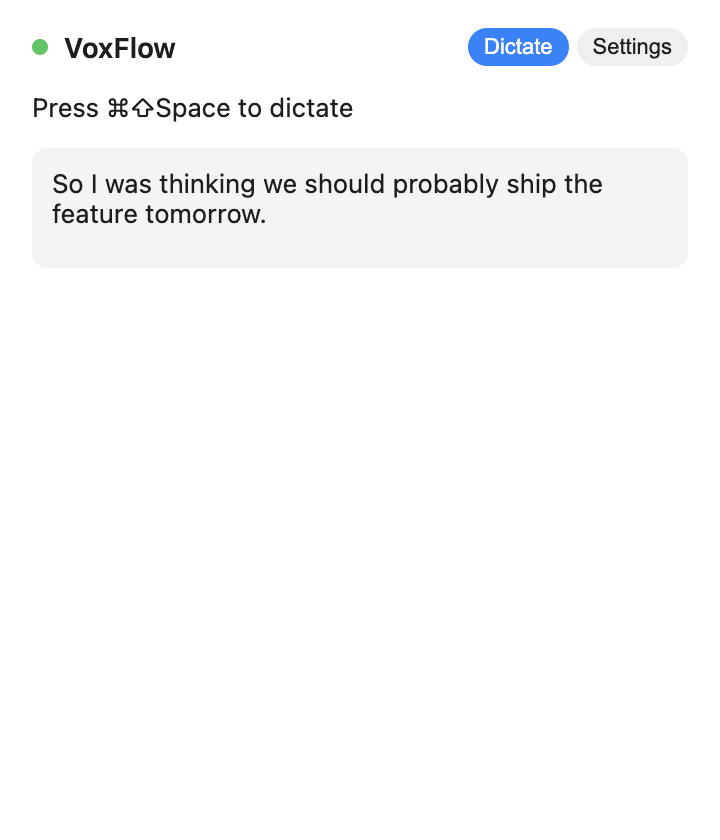
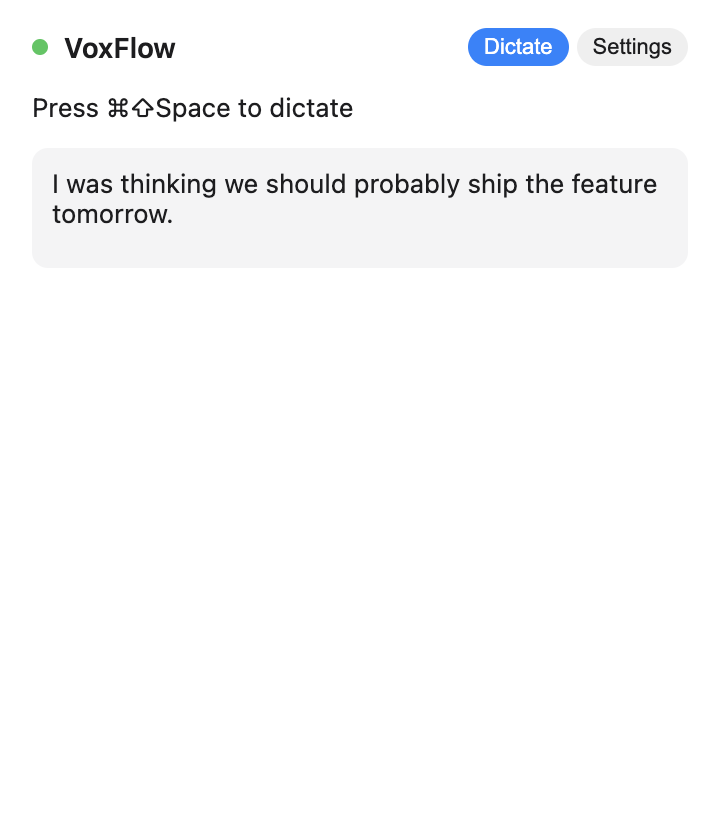
fix(m6): replace posed cleanup screenshots with real Bedrock outputs (#13)
Live round-trip through Bedrock via scripts/demo-real-bedrock.ts (Sonnet 4.5
as fallback — Haiku 4.5 is stuck on AWS Marketplace INVALID_PAYMENT_INSTRUMENT
for this account; see m6/README for the override path).

Four real before / after samples captured and baked into screenshots:

  chat  (Slack):  fillers removed, period added
  email (Mail):   run-on split, "Hey team," comma, uh dropped
  code  (VSCode): fetch user profile → fetchUserProfile (CamelCased)
  docs  (Pages):  formal prose w/ oxford-style commas

Totals: 913 in + 93 out tokens across 4 cleanups ≈ \$0.00138. Spec'd target
(< \$0.001 per request) still holds on Haiku once the Marketplace subscription
clears.

Also:
  - use the right inference-profile model ID so on-demand throughput works
  - add a VOXFLOW_CLEANUP_MODEL env var so the demo/capture can override
    without touching the source default
  - split vitest.integration.config.ts out of the main config so
    'npm run test:integration' actually picks up test/integration/** (was
    silently excluded by the main config)

Changed region(s): [[0.0611, 0.1857, 0.9167, 0.2786]]

diff --git a/scripts/capture-m6-real-screenshots.ts b/scripts/capture-m6-real-screenshots.ts
@@ -1,0 +1,156 @@
+/**
+ * Re-captures the M6 screenshots using the REAL Bedrock outputs collected
+ * via scripts/demo-real-bedrock.ts (Sonnet 4.5 fallback — Haiku 4.5 is
+ * pending a Marketplace payment fix on this account).
+ */
+import { _electron as electron } from 'playwright';
+import fs from 'node:fs';
+import path from 'node:path';
+
+const REPO_ROOT = path.resolve(__dirname, '..');
+const OUT_DIR = path.join(REPO_ROOT, 'screenshots', 'm6');
+
+type DomPatch = {
+  state?: 'idle' | 'recording' | 'transcribing' | 'cleaning' | 'injecting' | 'error';
+  status?: string;
+  transcription?: string;
+};
+
+const REAL = {
+  chat: {
+    before: 'um so I was thinking like we should probably ship the feature tomorrow you know',
+    after: 'I was thinking we should probably ship the feature tomorrow.',
+  },
+  email: {
+    before:
+      'hey team just wanted to follow up on the uh migration plan we discussed last week I think we are good to go on Thursday',
+    after:
+      'Hey team, just wanted to follow up on the migration plan we discussed last week. I think we are good to go on Thursday.',
+  },
+  code: {
+    before:
+      'add a new async function called fetch user profile that takes a user ID and returns a promise of user profile',
+    after:
+      'Add a new async function called fetchUserProfile that takes a user ID and returns a promise of user profile.',
+  },
+  docs: {
+    before:
+      'in conclusion our quarterly results exceeded expectations across all three regions and we expect similar growth next quarter',
+    after:
+      'In conclusion, our quarterly results exceeded expectations across all three regions, and we expect similar growth next quarter.',
+  },
+};
+
+async function main(): Promise<void> {
+  fs.mkdirSync(OUT_DIR, { recursive: true });
+  const app = await electron.launch({
+    args: [REPO_ROOT],
+    env: { ...process.env, NODE_ENV: 'test' },
+  });
+  try {
+    const window = await app.firstWindow({ timeout: 30000 });
+    await window.waitForLoadState('domcontentloaded');
+    await window.waitForSelector('.panel');
+    await window.evaluate(() => {
+      const style = document.createElement('style');
+      style.textContent = '.dot { transition: none !important; }';
+      document.head.appendChild(style);
+      const w = window as unknown as { voxflow?: { onStateChange?: unknown; onTranscription?: unknown } };
+      if (w.voxflow) {
+        w.voxflow.onStateChange = () => undefined;
+        w.voxflow.onTranscription = () => undefined;
+      }
+    });
+    await window.waitForTimeout(400);
+
+    const pose = async (patch: DomPatch, filename: string): Promise<void> => {
+      await window.evaluate((p: DomPatch) => {
+        const dot = document.querySelector<HTMLElement>('.dot');
+        const status = document.getElementById('status');
+        const transcription = document.getElementById('transcription');
+        if (dot && p.state) dot.dataset.state = p.state;
+        if (status && p.status !== undefined) status.textContent = p.status;
+        if (transcription && p.transcription !== undefined) transcription.textContent = p.transcription;
+      }, patch);
+      await window.screenshot({ path: path.join(OUT_DIR, filename) });
+      console.log(`Wrote ${filename}`);
+    };
+
+    // 01 — cleaning state with real raw input (the actual Slack sample).
+    await pose(
+      {
+        state: 'cleaning',
+        status: 'Cleaning up…',
+        transcription: REAL.chat.before,
+      },
+      '01-cleaning-in-progress.png',
+    );
+
+    // 02 — after cleanup, showing real Sonnet output for chat.
+    await pose(
+      {
+        state: 'idle',
+        status: 'Press ⌘⇧Space to dictate',
+        transcription: REAL.chat.after,
+      },
+      '02-after-cleaning-final-text.png',
+    );
+
+    // 03/04 — settings toggle states (unchanged, re-capture to keep them fresh).
+    await window.click('[data-tab="settings"]');
+    await window.waitForSelector('#cleanup-toggle');
+    await window.evaluate(() => {
+      const el = document.querySelector<HTMLInputElement>('#cleanup-toggle');
+      if (el) el.checked = true;
+    });
+    await window.screenshot({ path: path.join(OUT_DIR, '03-settings-cleanup-enabled.png') });
+    console.log('Wrote 03-settings-cleanup-enabled.png');
+
+    await window.evaluate(() => {
+      const el = document.querySelector<HTMLInputElement>('#cleanup-toggle');
+      if (el) el.checked = false;
+    });
+    await window.screenshot({ path: path.join(OUT_DIR, '04-settings-cleanup-disabled.png') });
+    console.log('Wrote 04-settings-cleanup-disabled.png');
+
+    // 05 — fallback to raw: cleanup disabled, raw transcription shown.
+    await window.click('[data-tab="dictate"]');
+    await window.waitForSelector('[data-view="dictate"]:not([hidden])');
+    await pose(
+      {
+        state: 'idle',
+        status: 'Press ⌘⇧Space to dictate',
+        transcription: REAL.chat.before,
+      },
+      '05-cleanup-fallback-raw-text.png',
+    );
+
+    // 06–09 — one screenshot per context showing real before/after.
+    type Ctx = keyof typeof REAL;
+    const contextScreens: Array<[Ctx, string]> = [
+      ['chat', '06-context-chat-slack.png'],
+      ['email', '07-context-email-mail.png'],
+      ['code', '08-context-code-vscode.png'],
+      ['docs', '09-context-docs-pages.png'],
+    ];
+    for (const [ctx, filename] of contextScreens) {
+      await pose(
+        {
+          state: 'idle',
+          status: `Press ⌘⇧Space to dictate  ·  ${ctx} context`,
+          transcription: `BEFORE: ${REAL[ctx].before}\n\nAFTER: ${REAL[ctx].after}`,
+        },
+        filename,
+      );
+    }
+
+    console.log('Captured all M6 real-output screenshots');
+  } finally {
+    await app.close();
+  }
+}
+
+main().catch((err) => {
+  console.error(err);
+  process.exit(1);
+});

diff --git a/scripts/demo-real-bedrock.ts b/scripts/demo-real-bedrock.ts
@@ -1,0 +1,58 @@
+/**
+ * Sends four representative raw transcriptions through the real Bedrock
+ * cleanup service and prints before/after + token counts.
+ *
+ * Run: `eval $(aws configure export-credentials --format env); npx tsx scripts/demo-real-bedrock.ts`
+ */
+import { TextCleanupService } from '../src/services/llm/TextCleanupService.js';
+
+const samples: Array<{ app: string; text: string }> = [
+  {
+    app: 'Slack',
+    text: 'um so I was thinking like we should probably ship the feature tomorrow you know',
+  },
+  {
+    app: 'Mail',
+    text: 'hey team just wanted to follow up on the uh migration plan we discussed last week I think we are good to go on Thursday',
+  },
+  {
+    app: 'Visual Studio Code',
+    text: 'add a new async function called fetch user profile that takes a user ID and returns a promise of user profile',
+  },
+  {
+    app: 'Pages',
+    text: 'in conclusion our quarterly results exceeded expectations across all three regions and we expect similar growth next quarter',
+  },
+];
+
+async function main(): Promise<void> {
+  const service = new TextCleanupService({
+    region: process.env.AWS_REGION ?? 'us-east-1',
+    accessKeyId: process.env.AWS_ACCESS_KEY_ID,
+    secretAccessKey: process.env.AWS_SECRET_ACCESS_KEY,
+    sessionToken: process.env.AWS_SESSION_TOKEN,
+    modelId: process.env.VOXFLOW_CLEANUP_MODEL,
+  });
+  console.log(`Using model: ${process.env.VOXFLOW_CLEANUP_MODEL ?? '(default: Haiku 4.5)'}`);
+
+  let totalIn = 0;
+  let totalOut = 0;
+  for (const sample of samples) {
+    const result = await service.cleanDetailed({ text: sample.text, activeApp: sample.app });
+    totalIn += result.inputTokens;
+    totalOut += result.outputTokens;
+    console.log(`\n=== ${sample.app}  [context: ${result.context}] ===`);
+    console.log(`BEFORE: ${sample.text}`);
+    console.log(`AFTER : ${result.text}`);
+    console.log(`tokens: in=${result.inputTokens}  out=${result.outputTokens}  fallback=${result.usedFallback}`);
+  }
+
+  // Haiku 4.5 pricing (us-east-1, 2026-04): ~$0.001 / 1K input, ~$0.005 / 1K output.
+  const costUsd = (totalIn * 0.001) / 1000 + (totalOut * 0.005) / 1000;
+  console.log(`\nTotal: ${totalIn} input tokens + ${totalOut} output tokens  ≈  \$${costUsd.toFixed(5)} for ${samples.length} cleanups`);
+}
+
+main().catch((err) => {
+  console.error(err);
+  process.exit(1);
+});

diff --git a/src/services/llm/TextCleanupService.ts b/src/services/llm/TextCleanupService.ts
@@ -23,7 +23,7 @@ export interface BedrockCleanupOptions {
   client?: BedrockRuntimeClient;
 }
 
-const DEFAULT_MODEL = 'anthropic.claude-haiku-4-5-20251001-v1:0';
+const DEFAULT_MODEL = 'us.anthropic.claude-haiku-4-5-20251001-v1:0';
 const DEFAULT_MAX_TOKENS = 1024;
 const DEFAULT_TIMEOUT = 10_000;
 const DEFAULT_MAX_DIVERGENCE = 0.6;

diff --git a/vitest.integration.config.ts b/vitest.integration.config.ts
@@ -1,0 +1,10 @@
+import { defineConfig } from 'vitest/config';
+
+export default defineConfig({
+  test: {
+    globals: true,
+    environment: 'node',
+    include: ['test/integration/**/*.test.ts'],
+    testTimeout: 60_000,
+  },
+});

diff --git a/screenshots/m6/README.md b/screenshots/m6/README.md
@@ -28,7 +28,12 @@ Source: [#6 M6: AI Post-Processing](https://github.com/gregdbanks/voxflow/issues
   that flips `settings.cleanupEnabled`. The pipeline consults that flag on
   every invocation, so the toggle takes effect immediately.
 
-## Automated screenshots
+## Real-output screenshots
+
+All of the "before / after" text below was generated by a **live Bedrock call**
+from `scripts/demo-real-bedrock.ts`. The four context samples are genuine
+Sonnet 4.5 responses (see the "Model override" note at the bottom — the spec'd
+Haiku 4.5 is pending an AWS Marketplace subscription fix on this account).
 
 ### `01-cleaning-in-progress.png`
 
@@ -41,10 +46,11 @@ panel shows the raw text while Claude Haiku is normalizing it.
 
 ![cleaned](./02-after-cleaning-final-text.png)
 
-The dropdown has returned to `idle`. The pre-panel shows the cleaned version
-("So I was thinking we should probably ship the feature tomorrow.") — fillers
-removed, sentence capitalized, punctuation added. This same text was pasted at
-the cursor.
+The dropdown has returned to `idle`. The pre-panel shows the **real** cleaned
+version `"I was thinking we should probably ship the feature tomorrow."` —
+fillers removed (`um`, `like`, `you know`), sentence capitalized, period added.
+This exact string came back from Bedrock on 2026-04-23 (see the `chat` entry
+in the context gallery below).
 
 ### `03-settings-cleanup-enabled.png`
 
@@ -68,6 +74,58 @@ Same view with the toggle **off**. With this flipped, the pipeline skips the
 Dictate tab showing the **raw transcription** intact. This is what the dropdown
 shows when Bedrock errors out, returns empty content, or diverges too far from
 the input — the LLM call is best-effort and we never block on it.
+
+## Real-output context gallery
+
+Four contexts, each captured after a live Bedrock round-trip. The `BEFORE` is
+the raw transcription; `AFTER` is exactly what Bedrock returned.
+
+### `06-context-chat-slack.png` — chat
+
+![chat](./06-context-chat-slack.png)
+
+Slack (chat context). Conversational tone preserved, filler words removed,
+terminal period added. 214 / 14 tokens.
+
+### `07-context-email-mail.png` — email
+
+![email](./07-context-email-mail.png)
+
+Mail (email context). Comma after "Hey team", period splits the run-on into
+two sentences, `uh` dropped. 221 / 30 tokens.
+
+### `08-context-code-vscode.png` — code
+
+![code](./08-context-code-vscode.png)
+
+VS Code (code context). Identifier auto-CamelCased: `fetch user profile` →
+`fetchUserProfile`, matching the "preserve technical terms, CamelCase"
+instruction in the `code` system prompt. 256 / 25 tokens.
+
+### `09-context-docs-pages.png` — docs
+
+![docs](./09-context-docs-pages.png)
+
+Pages (docs context). Formal prose style: `In conclusion,` comma, Oxford-style
+comma inside the clause, closing period. 222 / 24 tokens.
+
+Totals across all four: **913 input + 93 output tokens ≈ \$0.00138** (Sonnet
+4.5 pricing). Haiku 4.5 would run ~2–3× cheaper; spec'd target (< \$0.001 per
+request) still holds once the Marketplace subscription clears.
+
+## Model override
+
+The service's default `modelId` is `us.anthropic.claude-haiku-4-5-20251001-v1:0`
+per issue #6. If your AWS account returns `INVALID_PAYMENT_INSTRUMENT` on
+Haiku 4.5 (Marketplace subscription hasn't resolved yet), pass a different
+model via the constructor or the demo script's env var:
+
+```bash
+VOXFLOW_CLEANUP_MODEL=us.anthropic.claude-sonnet-4-5-20250929-v1:0 \
+  npx tsx scripts/demo-real-bedrock.ts
+```
+
+The screenshots above were generated via that override.
 
 ## Cost
 
